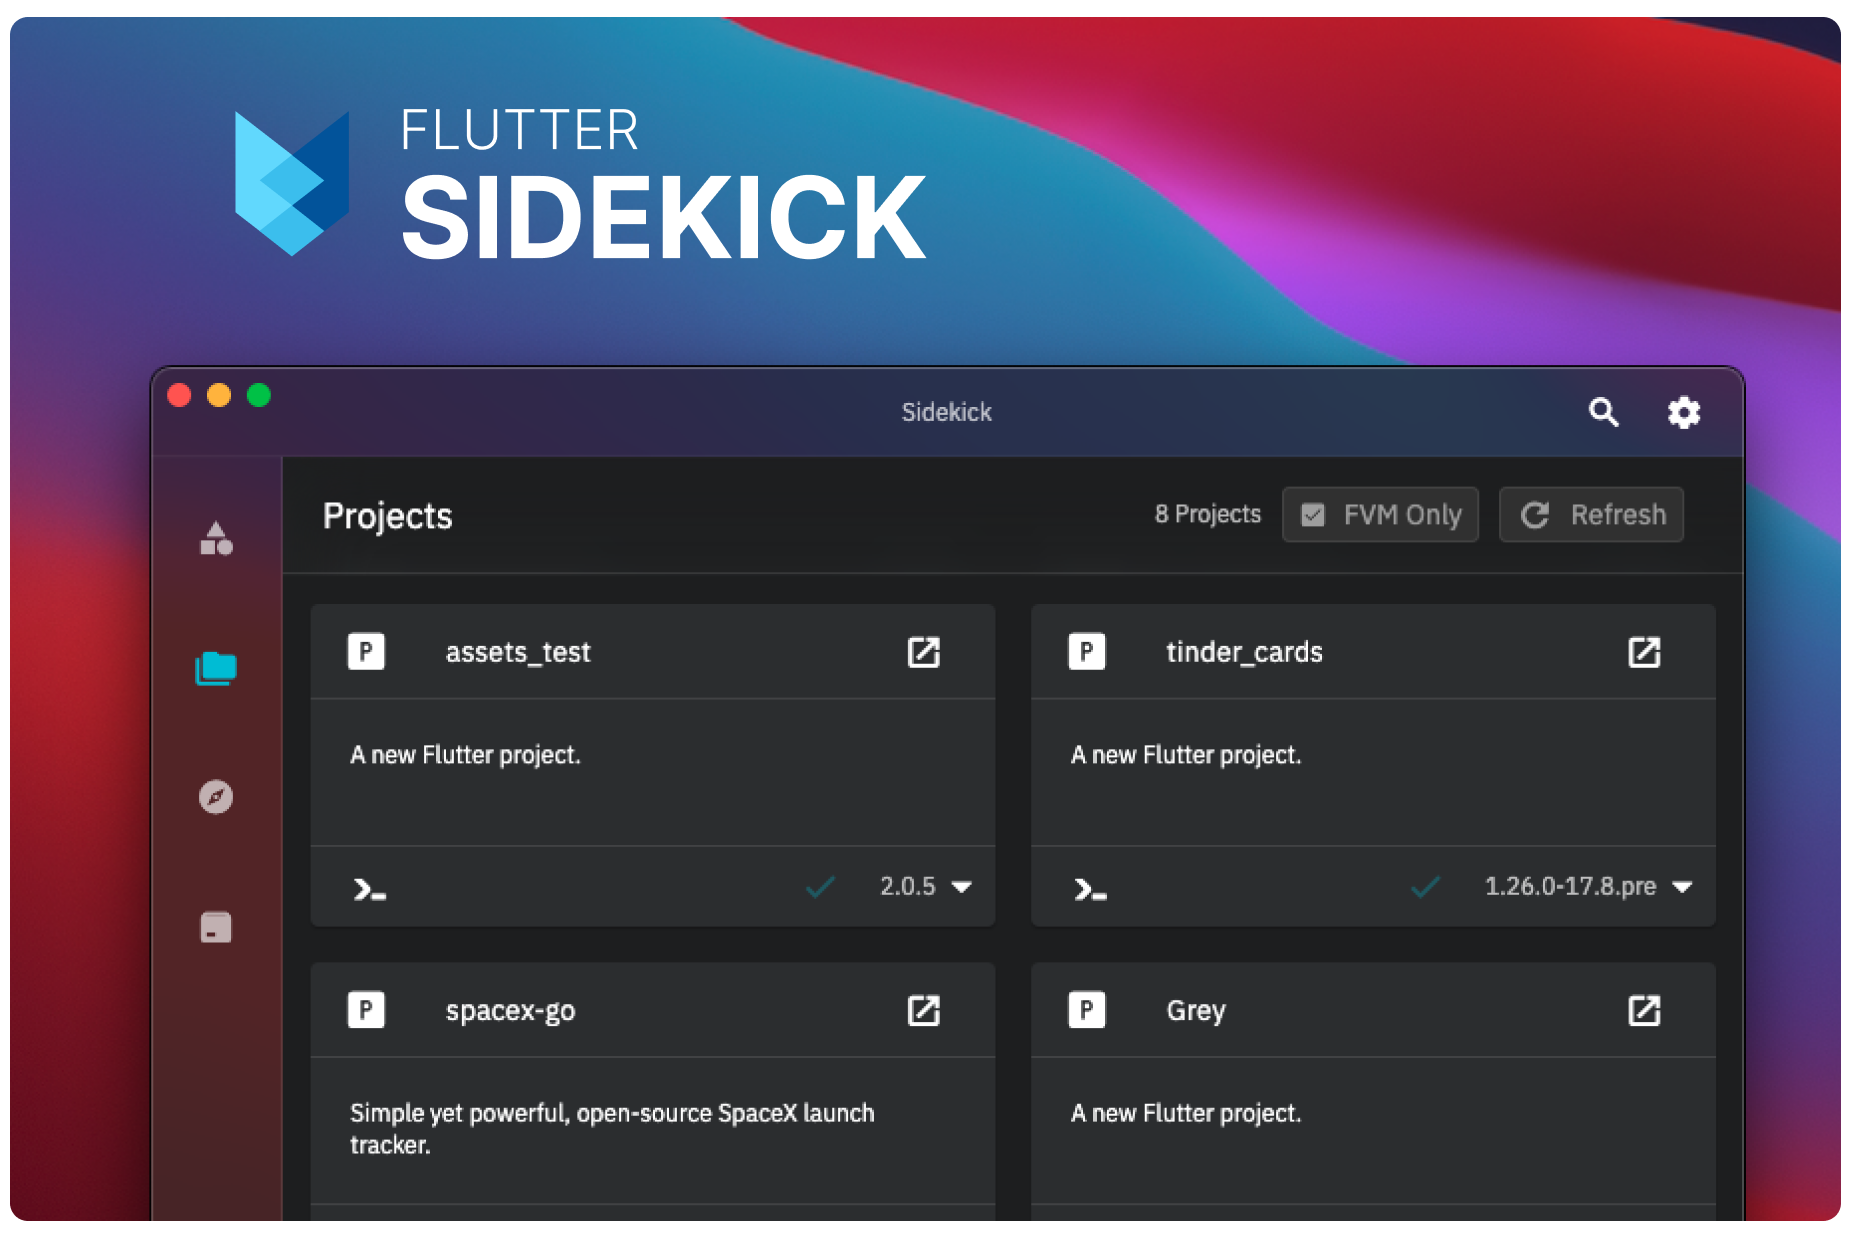
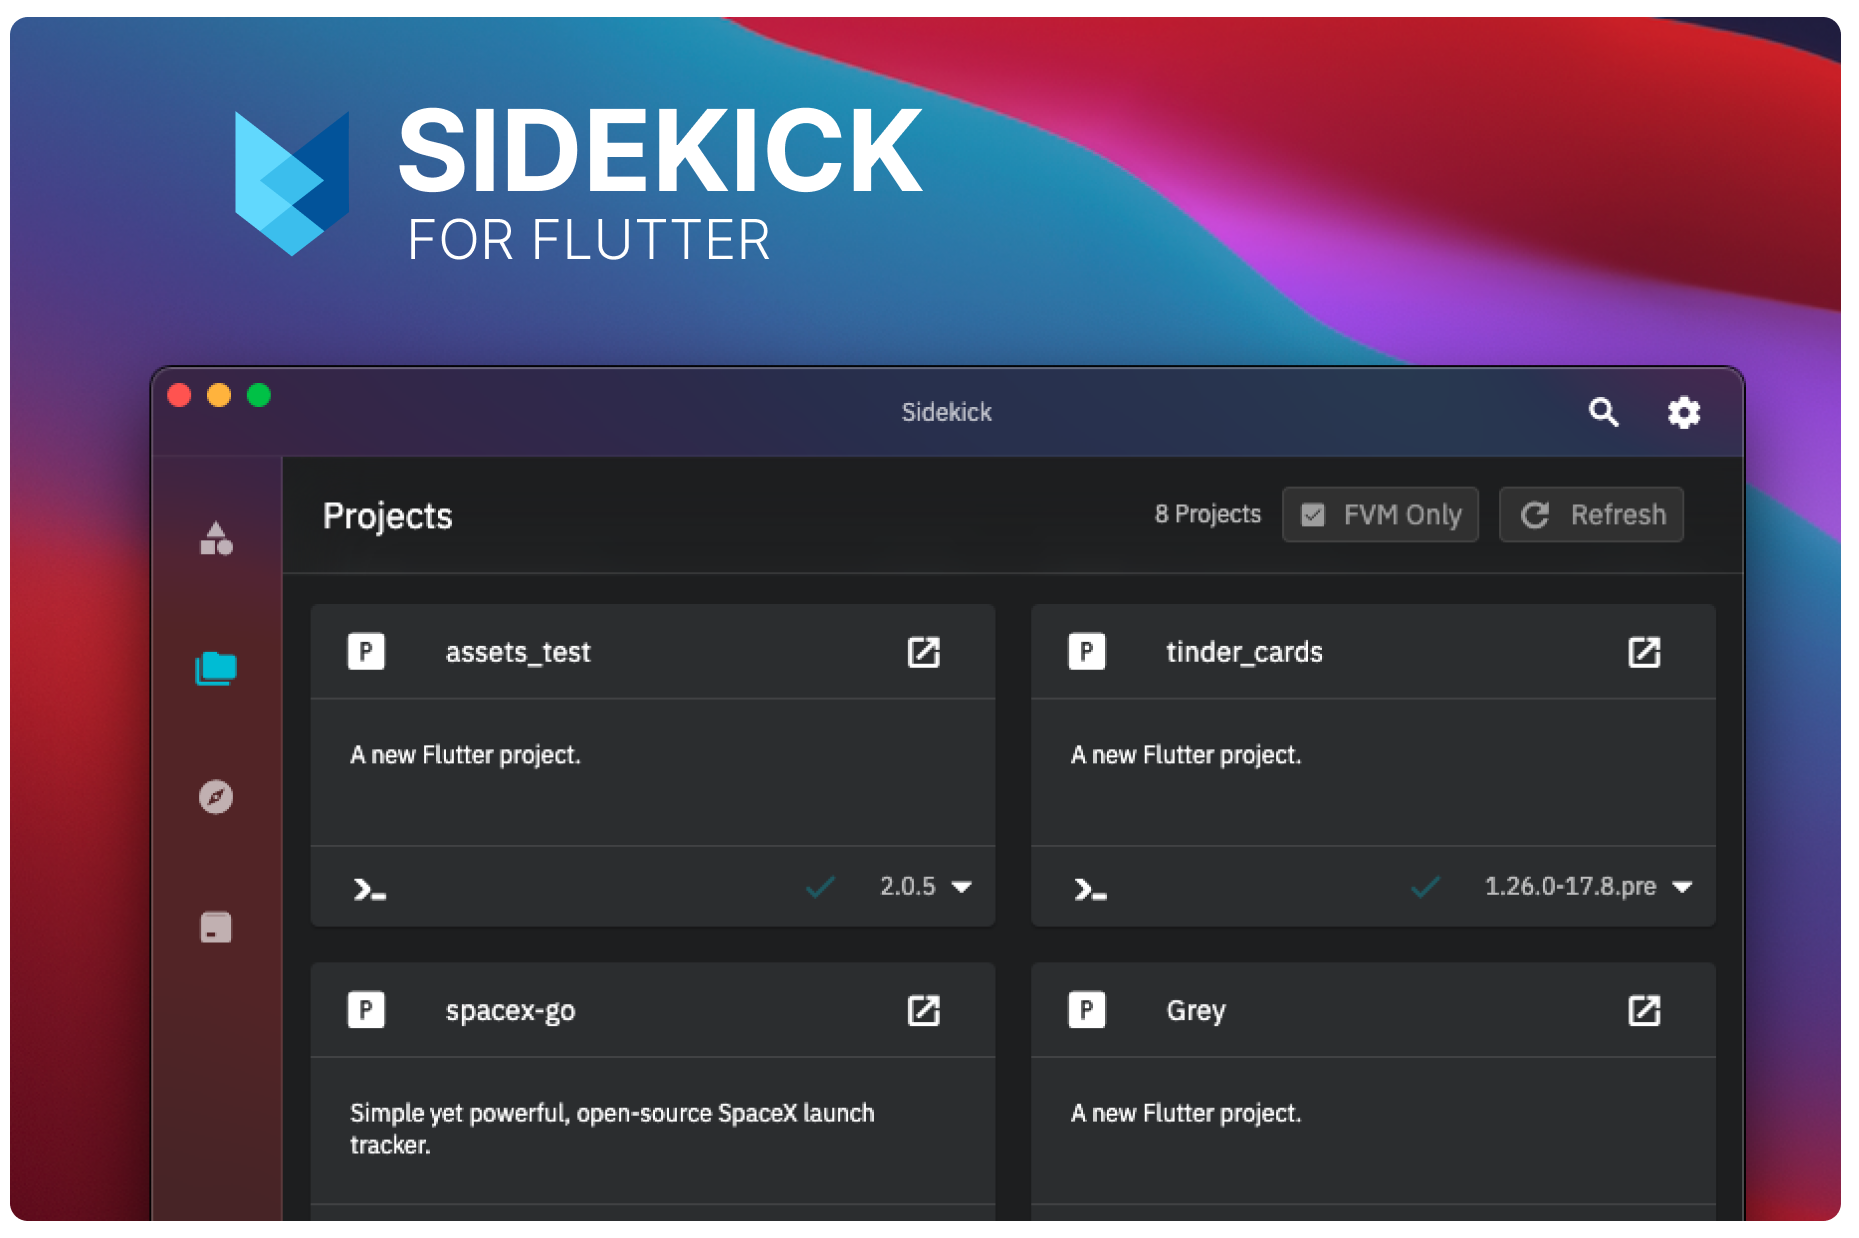
Trademark fixes - Sidekick for Flutter

Changed region(s): [[0.2184, 0.0614, 0.4992, 0.2149]]

diff --git a/README.md b/README.md
@@ -135,4 +135,7 @@ Thanks goes to these wonderful people ([emoji key](https://allcontributors.org/d
 
 <!-- ALL-CONTRIBUTORS-LIST:END -->
 
+### Notice
+Flutter and the related logo are trademarks of Google LLC. We are **not** endorsed by or affiliated with Google LLC.
+
 This project follows the [all-contributors](https://github.com/all-contributors/all-contributors) specification. Contributions of any kind welcome!
